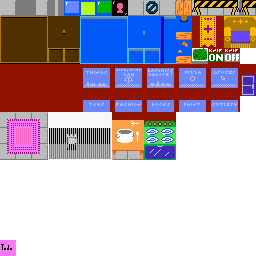
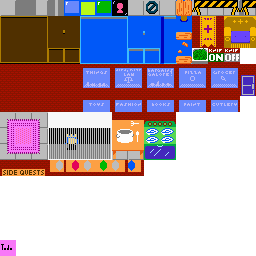
onboard new songs, and 3 side quests

Changed region(s): [[0.0, 0.625, 0.5625, 0.6875]]

diff --git a/src/game/shared_symbols.h b/src/game/shared_symbols.h
@@ -9,15 +9,16 @@
 #define NS_sys_mapw 16
 #define NS_sys_maph 14
 
-#define CMD_map_image      0x20 /* u16:imageid */
-#define CMD_map_location   0x21 /* u8:longitude u8:latitude */
-#define CMD_map_field      0x40 /* u16:k u16:v ; Set a store field at load. */
-#define CMD_map_treadle    0x41 /* u8:x u8:y u16:fld */
-#define CMD_map_stompbox   0x42 /* u8:x u8:y u16:fld */
-#define CMD_map_switchable 0x43 /* u8:x u8:y u16:fld */
-#define CMD_map_bombable   0x44 /* u8:x u8:y u16:fld */
-#define CMD_map_sprite     0x61 /* u16:pos u16:spriteid u32:reserved */
-#define CMD_map_door       0x62 /* u16:pos u16:mapid u16:dstpos u16:reserved */
+#define CMD_map_image       0x20 /* u16:imageid */
+#define CMD_map_location    0x21 /* u8:longitude u8:latitude */
+#define CMD_map_field       0x40 /* u16:k u16:v ; Set a store field at load. */
+#define CMD_map_treadle     0x41 /* u8:x u8:y u16:fld */
+#define CMD_map_stompbox    0x42 /* u8:x u8:y u16:fld */
+#define CMD_map_switchable  0x43 /* u8:x u8:y u16:fld */
+#define CMD_map_bombable    0x44 /* u8:x u8:y u16:fld */
+#define CMD_map_sprite      0x61 /* u16:pos u16:spriteid u32:reserved */
+#define CMD_map_door        0x62 /* u16:pos u16:mapid u16:dstpos u16:reserved */
+#define CMD_map_switchable6 0x63 /* u16:pos u8:fld *6 */
 
 #define CMD_sprite_solid    0x01
 #define CMD_sprite_airborne 0x02
@@ -126,6 +127,17 @@
 #define NS_fld_shortcut1        30
 #define NS_fld_death_count      31
 #define NS_fld_knivesoff        32
-#define FLD_COUNT               33
+#define NS_fld_sq1a             33
+#define NS_fld_sq1b             34
+#define NS_fld_sq1c             35
+#define NS_fld_sq1d             36
+#define NS_fld_sq1              37
+#define NS_fld_sq2              38
+#define NS_fld_sq3              39
+#define NS_fld_sq2a             40
+#define NS_fld_sq3a             41
+#define NS_fld_sq3b             42
+#define NS_fld_sq3c             43
+#define FLD_COUNT               44
 
 #endif

diff --git a/src/game/session/session.c b/src/game/session/session.c
@@ -157,6 +157,25 @@ static void check_changed_poi(int k,int v) {
             }
           }
         } break;
+      case CMD_map_switchable6: {
+          int allon=1,changed=0;
+          int i=2; for (;i<8;i++) {
+            int qk=poi->argv[i];
+            if (k==qk) changed=1;
+            if (!store_get(qk)) {
+              allon=0;
+              break;
+            }
+          }
+          if (changed) {
+            int cellp=poi->y*NS_sys_mapw+poi->x;
+            uint8_t ntileid=g.map->rocellv[cellp]+(allon?1:0);
+            if (g.map->cellv[cellp]!=ntileid) {
+              g.map->cellv[cellp]=ntileid;
+              sprite_spawn(poi->x+0.5,poi->y+0.5,0,&sprite_type_smoke,1);
+            }
+          }
+        } break;
     }
   }
 }
@@ -203,6 +222,21 @@ static void prerun_poi() {
             g.map->cellv[cellp]=g.map->rocellv[cellp]+1;
           } else {
             g.map->cellv[cellp]=g.map->rocellv[cellp];
+          }
+        } break;
+      case CMD_map_switchable6: {
+          int allon=1;
+          int i=2; for (;i<8;i++) {
+            int qk=poi->argv[i];
+            if (!store_get(qk)) {
+              allon=0;
+              break;
+            }
+          }
+          int cellp=poi->y*NS_sys_mapw+poi->x;
+          uint8_t ntileid=g.map->rocellv[cellp]+(allon?1:0);
+          if (g.map->cellv[cellp]!=ntileid) {
+            g.map->cellv[cellp]=ntileid;
           }
         } break;
     }
@@ -270,6 +304,7 @@ int enter_map(int rid,int transition) {
       case CMD_map_treadle:
       case CMD_map_stompbox:
       case CMD_map_switchable:
+      case CMD_map_switchable6:
       case CMD_map_bombable: {
           if (g.poic<POI_LIMIT) {
             struct poi *poi=g.poiv+g.poic++;

diff --git a/src/game/sprite/sprite_treasure.c b/src/game/sprite/sprite_treasure.c
@@ -30,6 +30,12 @@ static int _treasure_init(struct sprite *sprite) {
   return 0;
 }
 
+static int treasure_strix(uint8_t k) {
+  if ((k>=NS_fld_got_broom)&&(k<=NS_fld_got_candy)) return k-NS_fld_got_broom+8;
+  if ((k>=NS_fld_sq1)&&(k<=NS_fld_sq3)) return k-NS_fld_sq1+21;
+  return 0;
+}
+
 static void _treasure_update(struct sprite *sprite,double elapsed) {
   if (g.hero) {
     const double radius=0.5;
@@ -39,16 +45,21 @@ static void _treasure_update(struct sprite *sprite,double elapsed) {
       sprite->defunct=1;
       store_set(SPRITE->kgot,1);
       if (SPRITE->kqty) store_set(SPRITE->kqty,SPRITE->qty);
-      store_set(NS_fld_equipped,SPRITE->kgot); // Equip it. Is that too presumptuous of us?
+      if ((SPRITE->kgot>=NS_fld_got_broom)&&(SPRITE->kgot<=NS_fld_got_candy)) {
+        store_set(NS_fld_equipped,SPRITE->kgot); // Equip it. Is that too presumptuous of us?
+      }
       egg_play_sound(RID_sound_treasure);
-      struct strings_insertion insv[]={
-        {'r',.r={1,8+SPRITE->kgot-NS_fld_got_broom}},
-      };
-      modal_new_dialogue(
-        (int)(sprite->x*NS_sys_tilesize),
-        (int)(sprite->y*NS_sys_tilesize),
-        1,19,insv,sizeof(insv)/sizeof(insv[0])
-      );
+      int strix=treasure_strix(SPRITE->kgot);
+      if (strix>0) {
+        struct strings_insertion insv[]={
+          {'r',.r={1,strix}},
+        };
+        modal_new_dialogue(
+          (int)(sprite->x*NS_sys_tilesize),
+          (int)(sprite->y*NS_sys_tilesize),
+          1,19,insv,sizeof(insv)/sizeof(insv[0])
+        );
+      }
     }
   }
 }

diff --git a/src/game/sprite/sprite_flamethrower.c b/src/game/sprite/sprite_flamethrower.c
@@ -1,5 +1,6 @@
 /* sprite_flamethrower.c
  * args: u8:dir(0x40,0x10,0x08,0x02) u8:length u16:fld
+ * (length|0x80) to reverse flag.
  */
 
 #include "game/game.h"
@@ -16,13 +17,14 @@ struct sprite_flamethrower {
   int burning;
   double animclock;
   int animframe;
+  int reverse;
 };
 
 #define SPRITE ((struct sprite_flamethrower*)sprite)
 
 static void _flamethrower_cb_fld(int k,int v,void *userdata) {
   struct sprite *sprite=userdata;
-  if (v) {
+  if (v!=SPRITE->reverse) {
     SPRITE->burning=1;
     sprite->tileid=SPRITE->tileid0+1;
   } else {
@@ -40,8 +42,13 @@ static int _flamethrower_init(struct sprite *sprite) {
   SPRITE->dir=sprite->arg>>24;
   SPRITE->len=sprite->arg>>16;
   SPRITE->k=sprite->arg;
+  if (SPRITE->len&0x80) {
+    SPRITE->len&=0x7f;
+    SPRITE->reverse=1;
+  }
   if (SPRITE->k&&SPRITE->len) {
-    if (store_get(SPRITE->k)) SPRITE->burning=1;
+    if (store_get(SPRITE->k)==SPRITE->reverse) SPRITE->burning=0;
+    else SPRITE->burning=1;
     SPRITE->listenerid=store_listen(SPRITE->k,_flamethrower_cb_fld,sprite);
   }
   switch (SPRITE->dir) {

diff --git a/src/game/sprite/sprite_boss.c b/src/game/sprite/sprite_boss.c
@@ -75,6 +75,9 @@ static int _boss_init(struct sprite *sprite) {
     sprite->defunct=1;
     return 0;
   }
+  
+  // Seems out of our jurisdiction, but it makes sense: Change song to red_alarm when we instantiate, and let it run until we die.
+  egg_play_song(RID_song_red_alarm,0,1);
 
   SPRITE->tileid0=sprite->tileid;
   SPRITE->form=BOSS_FORM_CENTIPEDE;
@@ -505,6 +508,7 @@ static int _boss_hurt(struct sprite *sprite,struct sprite *assailant) {
   SPRITE->hurtclock=BOSS_HURT_TIME;
   if (--(SPRITE->hp)<=0) {
     if (SPRITE->form==BOSS_FORM_SNAKE) {
+      egg_play_song(RID_song_we_need_norris,0,1);
       sprite->defunct=1;
       sprite_spawn(sprite->x,sprite->y,0,&sprite_type_soulballs,0x05000000);
       store_set(NS_fld_boss_dead,1);

diff --git a/src/game/modal/modal_play.c b/src/game/modal/modal_play.c
@@ -426,7 +426,8 @@ static int _play_init(struct modal *modal) {
   modal->opaque=1;
   modal->passive=0;
   
-  egg_play_song(RID_song_we_need_norris,0,1);
+  if (store_get(NS_fld_boss_dead)) egg_play_song(RID_song_we_need_norris,0,1);
+  else egg_play_song(RID_song_embark_at_sunrise,0,1);
   
   // Chronflakes are initially randomized, so we can start displaying whenever.
   // They don't update when not in use.

diff --git a/src/game/sprite/sprite_bomb.c b/src/game/sprite/sprite_bomb.c
@@ -33,7 +33,7 @@ static void bomb_explode(struct sprite *sprite) {
 static void _bomb_update(struct sprite *sprite,double elapsed) {
   if (g.time_stopped) return;
   if ((SPRITE->animclock-=elapsed)<0.0) {
-    SPRITE->animclock+=0.200;
+    SPRITE->animclock+=0.170;
     if (++(SPRITE->animframe)>=3) {
       SPRITE->animframe=0;
     }

diff --git a/README.md b/README.md
@@ -27,15 +27,15 @@ Some items will have a count: Pepper, Bomb, Candy.
 - [ ] Post-boss-fight cutscene?
 - [ ] Modals.
 - - [ ] Game over. Success only. Game will not be loseable.
-- [ ] 3 side quests.
+- [x] 3 side quests.
 - [ ] NPCs with helpful dialogue.
 - [ ] Proper graphics.
-- [ ] Music.
+- [x] Music.
 - - `we_need_norris`: Play, after boss.
 - - `dead_weight`: Finale.
 - - `tickled_pink`: Hello.
-- - [ ] Play, before boss.
-- - [ ] Boss fight.
+- - [x] `embark_at_sunrise` Play, before boss.
+- - [x] `red_alarm` Boss fight.
 - [ ] Prevent monsters from triggering treadles by accident. Keep it possible when deliberate, eg with wand.
 - [ ] Game over: Trigger when entering throne room with the princess.
 - [ ] Sometimes face direction doesn't update after dropping the broom. Usually happens to me at the map right after acquiring broom.
